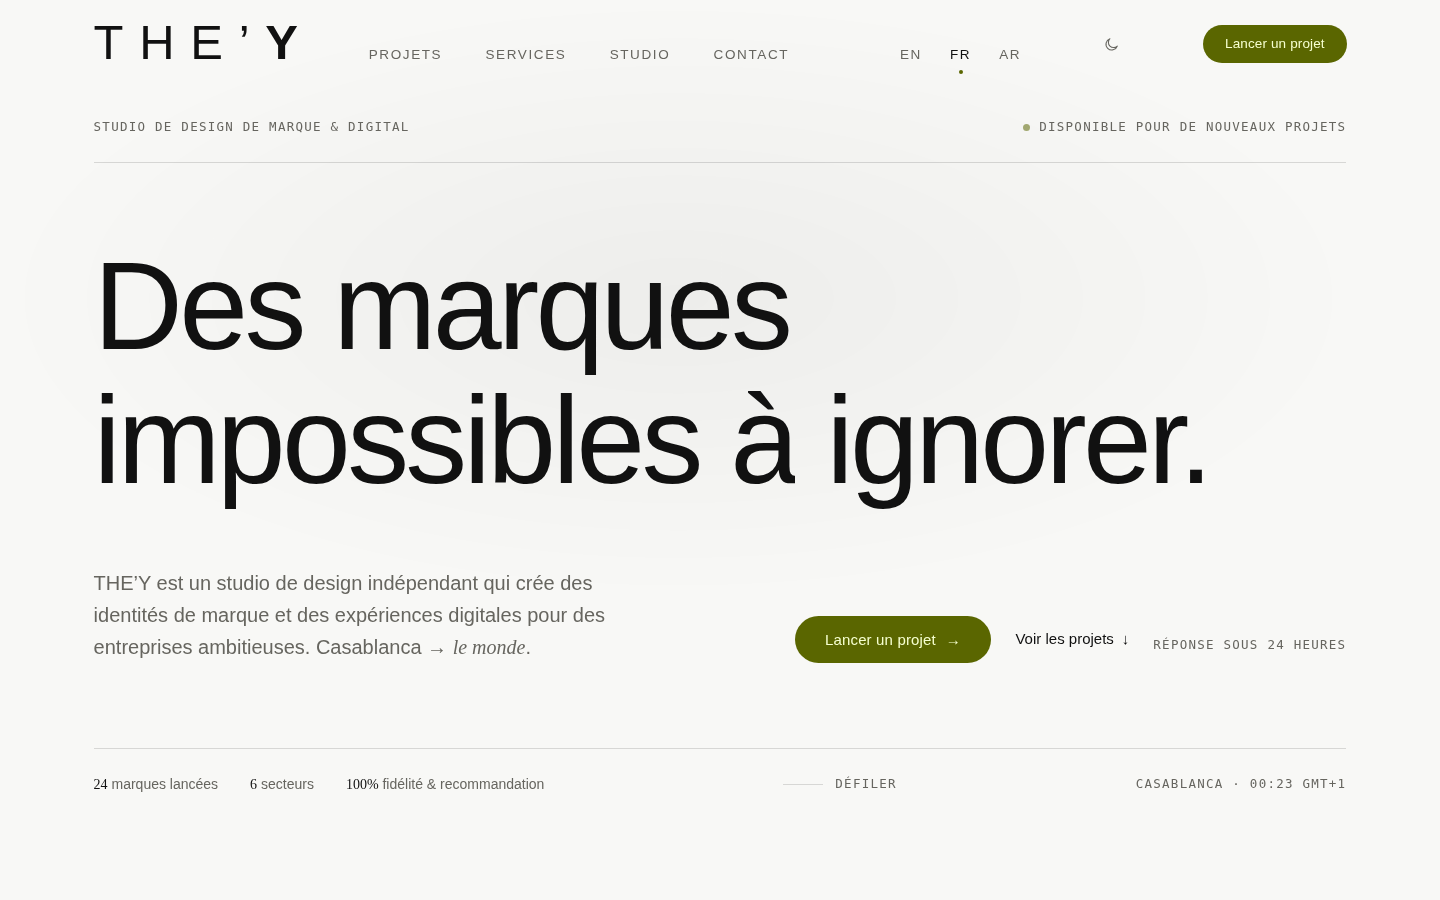
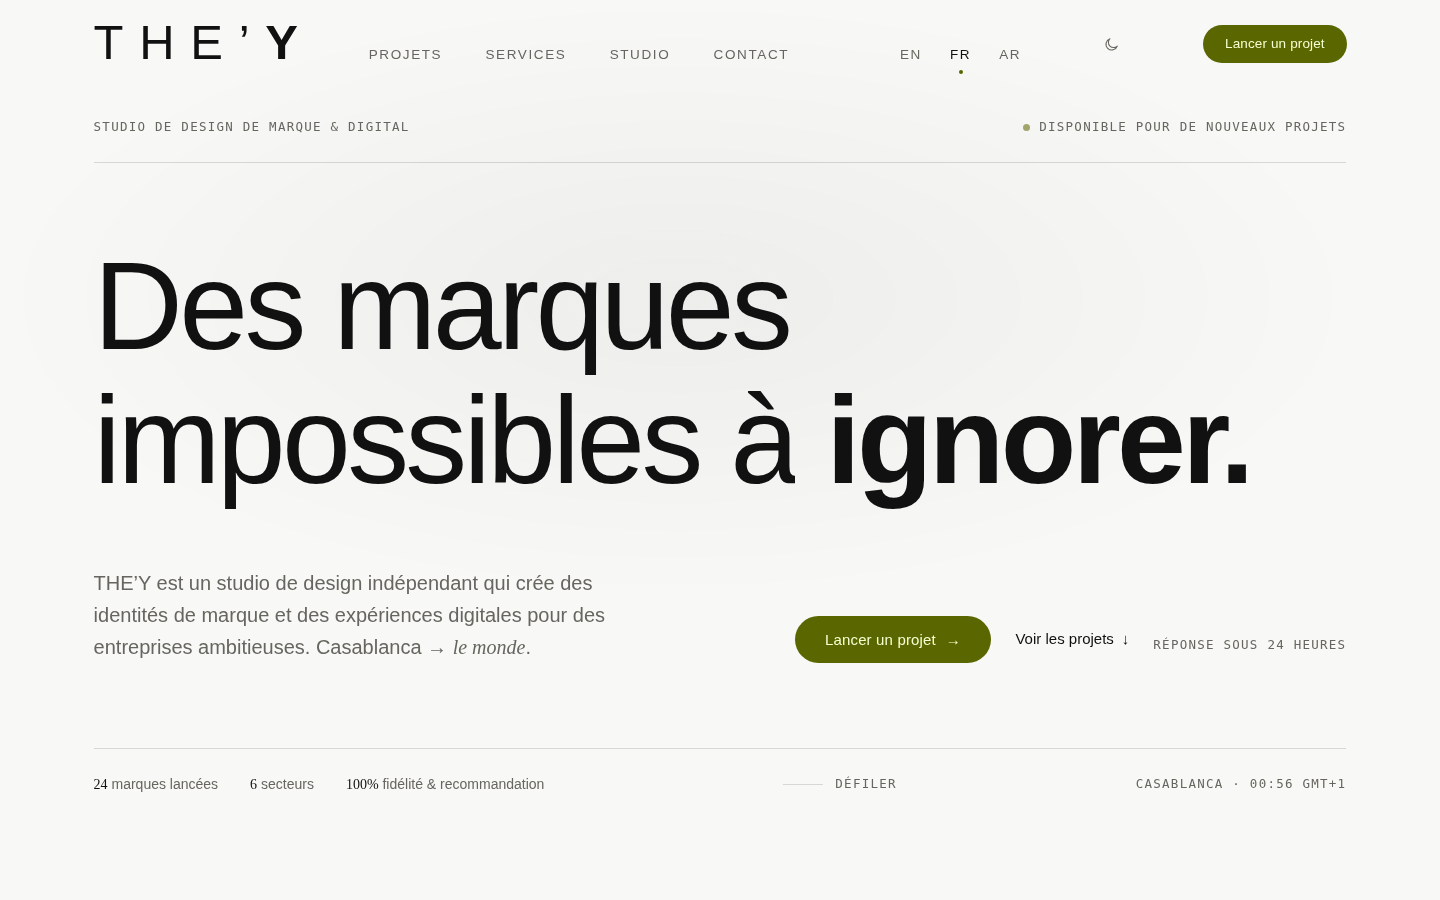
Light mode: highlighted hero word is pure black #111111 at weight 700 — no colored typography in the hero. Dark mode untouched (lime, 300)

Changed region(s): [[0.5625, 0.4356, 0.875, 0.56]]

diff --git a/assets/css/main.css b/assets/css/main.css
@@ -1043,7 +1043,8 @@ html[data-theme="light"] .hero-v2 .hero-statement {
   font-weight: 400;
 }
 html[data-theme="light"] .hero-v2 .hero-statement .reveal-line:last-of-type .reveal-word {
-  color: inherit;
+  color: #111111;
+  font-weight: 700;
 }
 /* Case studies keep their art-directed Paper surface in both themes
    (.surface-paper re-declares tokens on <body>, closer than <html>). */